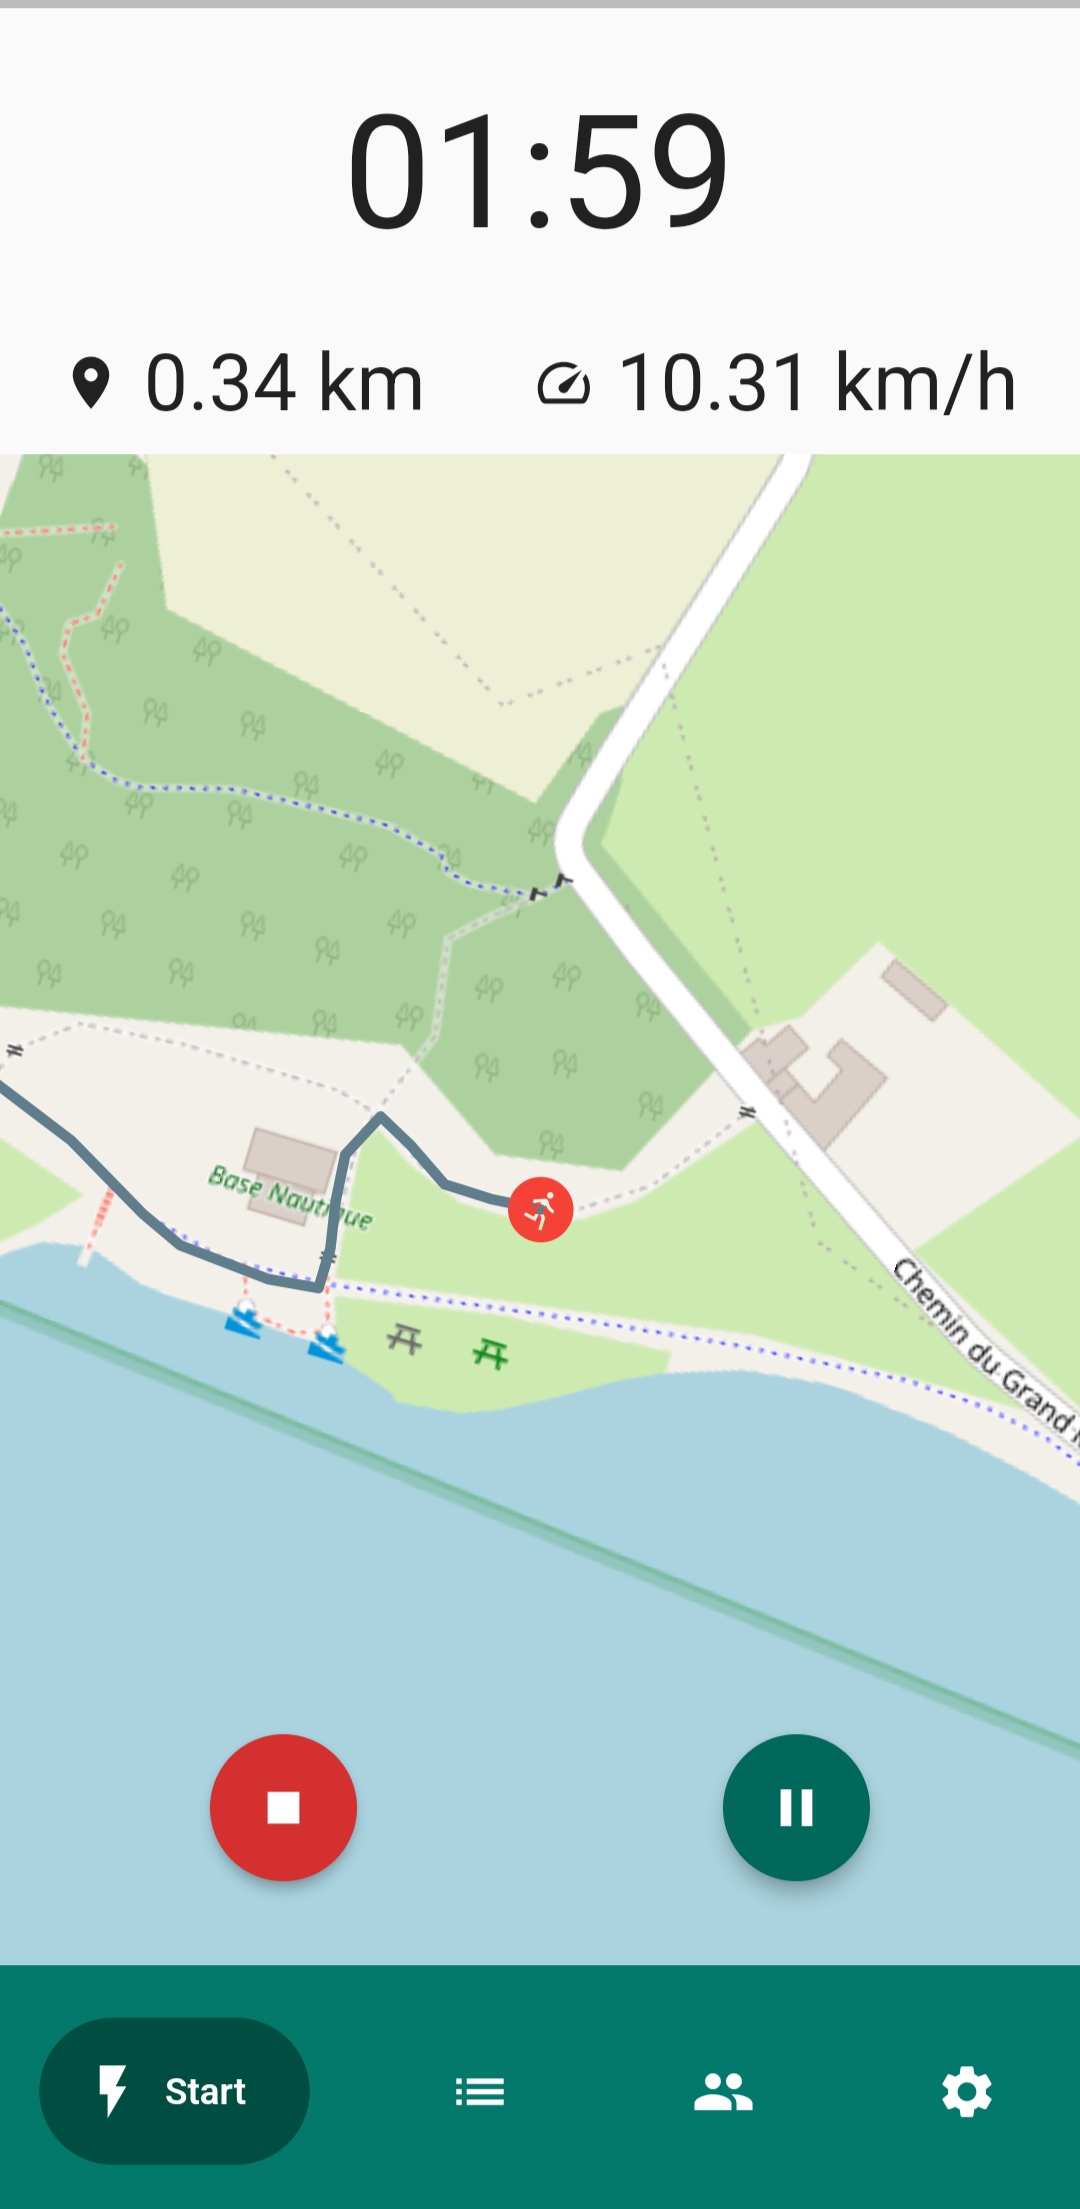
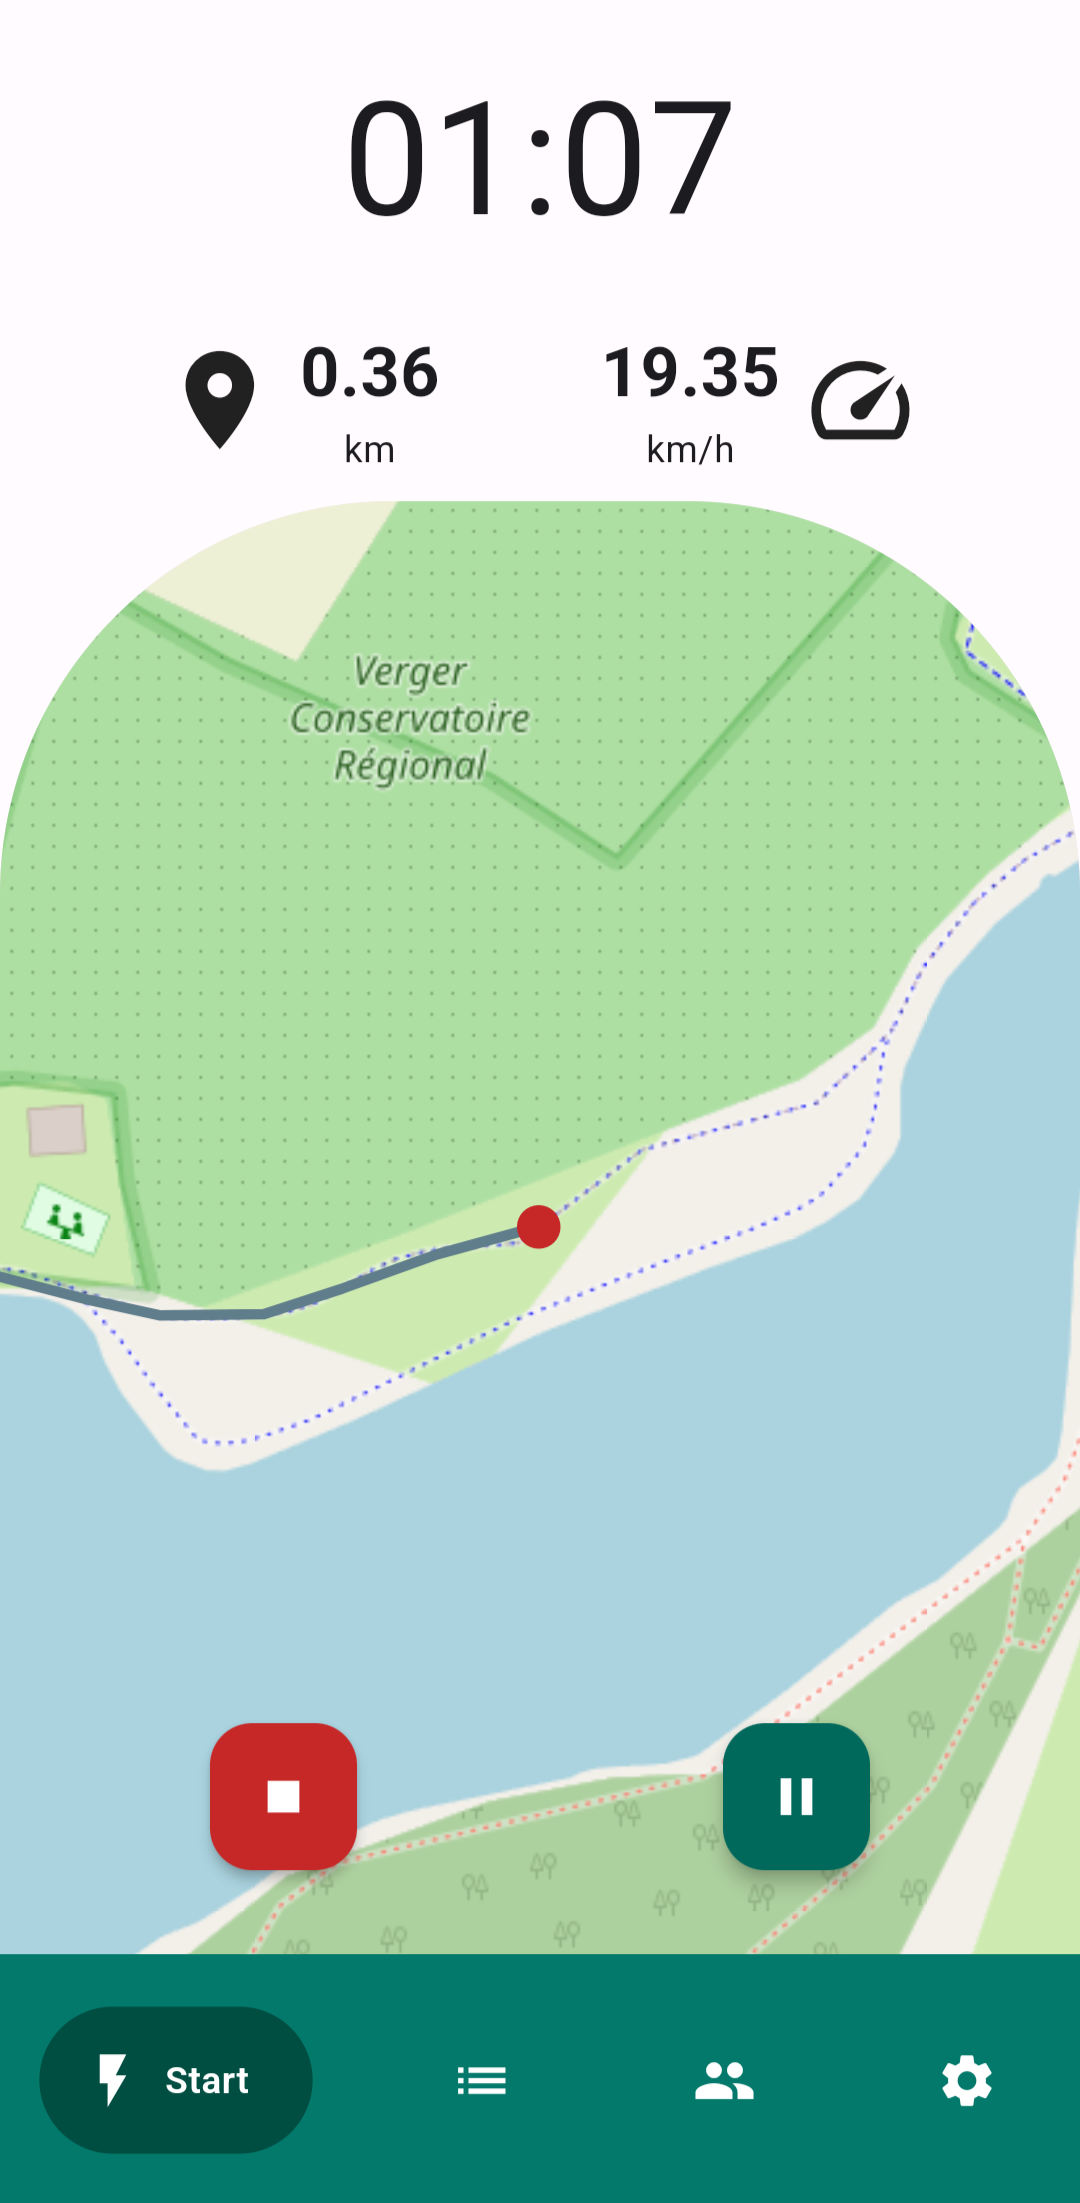
improve map and metric style (#54)
* improve map and metric style

* edit screenshots

diff --git a/lib/presentation/common/location/widgets/location_map.dart b/lib/presentation/common/location/widgets/location_map.dart
@@ -27,32 +27,29 @@ class LocationMap extends HookConsumerWidget {
     final zoomLevel = MapUtils.getZoomLevel(points, center);
 
     return points.isNotEmpty || currentPosition != null
-        ? SizedBox(
-            height: 500,
-            child: FlutterMap(
-              key: ValueKey(MediaQuery.of(context).orientation),
-              mapController: mapController,
-              options: MapOptions(
-                initialCenter: points.isNotEmpty
-                    ? center
-                    : currentPosition ?? const LatLng(0, 0),
-                initialZoom: zoomLevel,
-              ),
-              children: [
-                TileLayer(
-                  urlTemplate: 'https://tile.openstreetmap.org/{z}/{x}/{y}.png',
-                ),
-                PolylineLayer(
-                  polylines: [
-                    Polyline(
-                        points: points,
-                        strokeWidth: 4,
-                        color: ColorUtils.blueGrey),
-                  ],
-                ),
-                MarkerLayer(markers: markers),
-              ],
+        ? FlutterMap(
+            key: ValueKey(MediaQuery.of(context).orientation),
+            mapController: mapController,
+            options: MapOptions(
+              initialCenter: points.isNotEmpty
+                  ? center
+                  : currentPosition ?? const LatLng(0, 0),
+              initialZoom: zoomLevel,
             ),
+            children: [
+              TileLayer(
+                urlTemplate: 'https://tile.openstreetmap.org/{z}/{x}/{y}.png',
+              ),
+              PolylineLayer(
+                polylines: [
+                  Polyline(
+                      points: points,
+                      strokeWidth: 4,
+                      color: ColorUtils.blueGrey),
+                ],
+              ),
+              MarkerLayer(markers: markers),
+            ],
           )
         : Center(child: UIUtils.loader);
   }

diff --git a/lib/presentation/common/metrics/widgets/metrics.dart b/lib/presentation/common/metrics/widgets/metrics.dart
@@ -14,7 +14,7 @@ class Metrics extends HookConsumerWidget {
   @override
   Widget build(BuildContext context, WidgetRef ref) {
     final state = ref.watch(metricsViewModelProvider);
-    const textStyle = TextStyle(fontSize: 30.0);
+    const textStyle = TextStyle(fontSize: 26.0, fontWeight: FontWeight.bold);
 
     double speedToDisplay = state.globalSpeed;
     double distanceToDisplay = state.distance;
@@ -28,22 +28,36 @@ class Metrics extends HookConsumerWidget {
 
     return Center(
       child: Row(
-        mainAxisSize: MainAxisSize.min,
         mainAxisAlignment: MainAxisAlignment.spaceEvenly,
         children: [
-          const Icon(Icons.location_on),
-          const SizedBox(width: 8),
-          Text(
-            '${distanceToDisplay.toStringAsFixed(2)} km',
-            style: textStyle,
-          ),
-          const SizedBox(width: 40),
-          const Icon(Icons.speed),
-          const SizedBox(width: 8),
-          Text(
-            '${speedToDisplay.toStringAsFixed(2)} km/h',
-            style: textStyle,
-          ),
+          Row(children: [
+            const Icon(
+              Icons.location_on,
+              size: 45,
+            ),
+            const SizedBox(width: 8),
+            Column(children: [
+              Text(
+                distanceToDisplay.toStringAsFixed(2),
+                style: textStyle,
+              ),
+              const Text('km'),
+            ])
+          ]),
+          Row(children: [
+            Column(mainAxisAlignment: MainAxisAlignment.start, children: [
+              Text(
+                speedToDisplay.toStringAsFixed(2),
+                style: textStyle,
+              ),
+              const Text('km/h'),
+            ]),
+            const SizedBox(width: 8),
+            const Icon(
+              Icons.speed,
+              size: 45,
+            ),
+          ])
         ],
       ),
     );

diff --git a/lib/presentation/common/location/widgets/current_location_map.dart b/lib/presentation/common/location/widgets/current_location_map.dart
@@ -37,9 +37,9 @@ class CurrentLocationMap extends HookConsumerWidget {
         height: 80,
         point: LatLng(currentLatitude, currentLongitude),
         child: Icon(
-          Icons.run_circle_sharp,
-          size: 30,
-          color: ColorUtils.red,
+          Icons.circle,
+          size: 20,
+          color: ColorUtils.errorDarker,
         ),
       ),
     ];
@@ -75,12 +75,19 @@ class CurrentLocationMap extends HookConsumerWidget {
 
     return futureProvider.when(data: (total) {
       return Expanded(
-          child: LocationMap(
-        points: points,
-        markers: markers,
-        currentPosition: LatLng(currentLatitude, currentLongitude),
-        mapController: provider.mapController ?? MapController(),
-      ));
+          child: SizedBox(
+              height: 500,
+              child: ClipRRect(
+                  borderRadius: const BorderRadius.only(
+                    topLeft: Radius.circular(150),
+                    topRight: Radius.circular(150),
+                  ),
+                  child: LocationMap(
+                    points: points,
+                    markers: markers,
+                    currentPosition: LatLng(currentLatitude, currentLongitude),
+                    mapController: provider.mapController ?? MapController(),
+                  ))));
     }, loading: () {
       return Expanded(child: Center(child: UIUtils.loader));
     }, error: (error, stackTrace) {

diff --git a/lib/presentation/new_activity/screens/sum_up_screen.dart b/lib/presentation/new_activity/screens/sum_up_screen.dart
@@ -94,15 +94,24 @@ class SumUpScreen extends HookConsumerWidget {
                   const Metrics(),
                   const SizedBox(height: 10),
                   Expanded(
-                    child: RepaintBoundary(
-                      key: state.boundaryKey,
-                      child: LocationMap(
-                        points: points,
-                        markers: markers,
-                        mapController: MapController(),
+                    child: SizedBox(
+                      height: 500,
+                      child: ClipRRect(
+                        borderRadius: const BorderRadius.only(
+                          topLeft: Radius.circular(150),
+                          topRight: Radius.circular(150),
+                        ),
+                        child: RepaintBoundary(
+                          key: state.boundaryKey,
+                          child: LocationMap(
+                            points: points,
+                            markers: markers,
+                            mapController: MapController(),
+                          ),
+                        ),
                       ),
                     ),
-                  ),
+                  )
                 ],
               ),
             ),

diff --git a/lib/presentation/my_activities/widgets/details_tab.dart b/lib/presentation/my_activities/widgets/details_tab.dart
@@ -102,14 +102,22 @@ class DetailsTab extends HookConsumerWidget {
             speed: displayedActivity.speed,
           ),
           Expanded(
-            child: RepaintBoundary(
-              key: state.boundaryKey,
-              child: LocationMap(
-                points: points,
-                markers: markers,
-                mapController: MapController(),
-              ),
-            ),
+            child: SizedBox(
+                height: 500,
+                child: ClipRRect(
+                  borderRadius: const BorderRadius.only(
+                    topLeft: Radius.circular(150),
+                    topRight: Radius.circular(150),
+                  ),
+                  child: RepaintBoundary(
+                    key: state.boundaryKey,
+                    child: LocationMap(
+                      points: points,
+                      markers: markers,
+                      mapController: MapController(),
+                    ),
+                  ),
+                )),
           )
         ],
       ),

diff --git a/lib/presentation/common/timer/widgets/timer_start.dart b/lib/presentation/common/timer/widgets/timer_start.dart
@@ -16,8 +16,9 @@ class TimerStart extends HookConsumerWidget {
 
     return FloatingActionButton(
       heroTag: 'start_button',
-      backgroundColor:
-          timerViewModel.hasTimerStarted() ? ColorUtils.red : ColorUtils.main,
+      backgroundColor: timerViewModel.hasTimerStarted()
+          ? ColorUtils.errorDarker
+          : ColorUtils.main,
       elevation: 4.0,
       child: AnimatedSwitcher(
         duration: const Duration(milliseconds: 300),

diff --git a/lib/presentation/home/screens/home_screen.dart b/lib/presentation/home/screens/home_screen.dart
@@ -44,7 +44,6 @@ class HomeScreen extends HookConsumerWidget {
                 padding: const EdgeInsets.all(16),
                 selectedIndex: currentIndex,
                 onTabChange: (value) {
-                  //locationViewModel.cancelLocationStream();
                   homeViewModel.setCurrentIndex(value);
                 },
                 gap: 8,

diff --git a/lib/presentation/common/core/utils/color_utils.dart b/lib/presentation/common/core/utils/color_utils.dart
@@ -26,6 +26,7 @@ class ColorUtils {
   static Color greyLight = Colors.grey.shade300;
   static Color blueGrey = Colors.blueGrey;
   static Color blueGreyDarker = Colors.blueGrey.shade900;
+  static Color backgroundLight = Colors.white;
 
   /// List of colors used for generating color tuples.
   static List<Color> colorList = [

diff --git a/lib/main.dart b/lib/main.dart
@@ -91,6 +91,7 @@ class MyApp extends HookConsumerWidget {
           selectionHandleColor: ColorUtils.main,
         ),
         primaryColor: ColorUtils.main,
+        splashColor: ColorUtils.blueGreyDarker,
         bottomSheetTheme:
             BottomSheetThemeData(backgroundColor: ColorUtils.transparent),
       ),

diff --git a/lib/presentation/common/core/utils/image_utils.dart b/lib/presentation/common/core/utils/image_utils.dart
@@ -16,6 +16,7 @@ class ImageUtils {
     try {
       RenderRepaintBoundary boundary = boundaryKey.currentContext!
           .findRenderObject() as RenderRepaintBoundary;
+
       ui.Image image = await boundary.toImage();
       ByteData? byteData =
           await image.toByteData(format: ui.ImageByteFormat.png);
